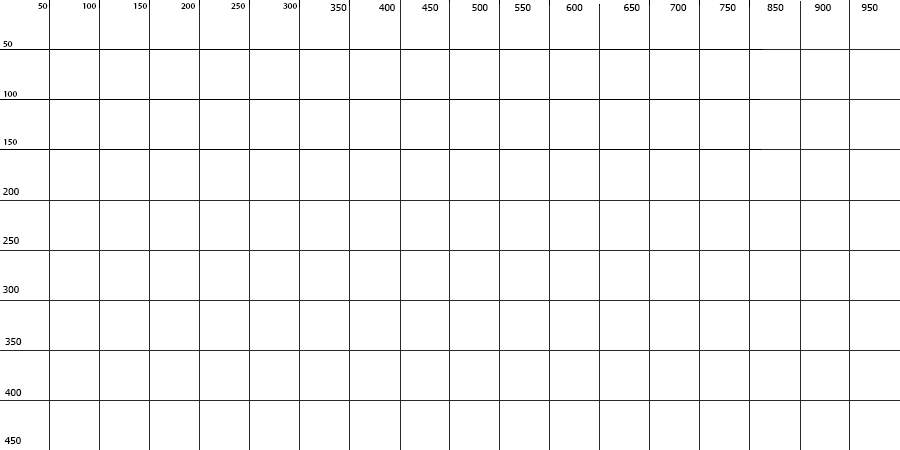
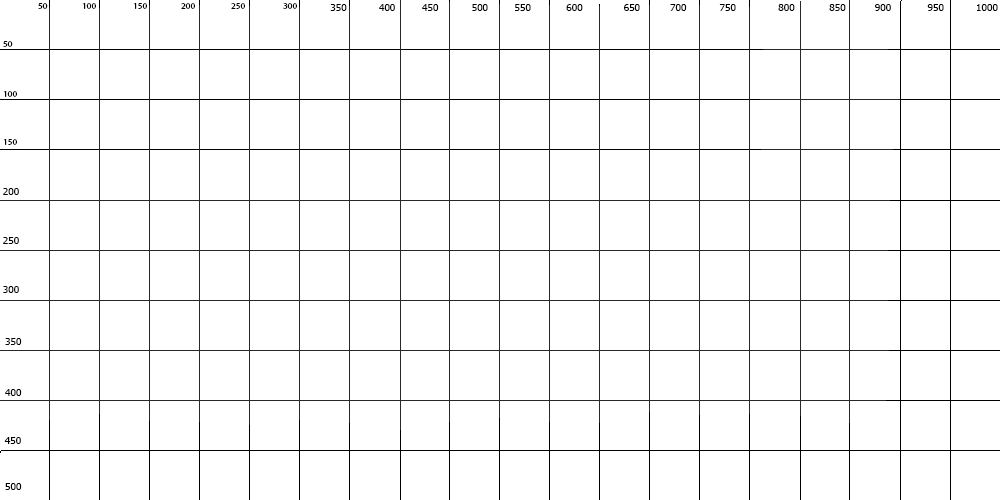
созданна основа клиента: -коррекция размеров

diff --git a/main.js b/main.js
@@ -3,7 +3,7 @@ inputs = document.querySelectorAll('input');
 for (let i=0; i < inputs.length; i++) {
   inputs[i].oninput = () => {
     addInputData(inputs);
-    drow();
+    draw();
   }
 }
 
@@ -21,15 +21,17 @@ function addInputData(node_list) {
 let canvas = document.getElementById('c1');
 ctx = canvas.getContext('2d');
 
-function drow() {
-  ctx.clearRect(0, 0, 900, 450);
+function draw() {
+  ctx.clearRect(0, 0, 1000, 500);
   ctx.strokeStyle = 'red';
   ctx.lineWidth = '5';
   ctx.beginPath();
-  ctx.moveTo(200, 150);
+  ctx.moveTo(500, 250);
+  let x = 0;
+  let y = 0;
   for (let i=0; i < inputDate.length; i++) {
-    let x = inputDate[i][0];
-    let y = inputDate[i][1];
+    x = inputDate[i][0];
+    y = inputDate[i][1];
     ctx.lineTo(x, y);
   }
   // ctx.closePath();

diff --git a/style.css b/style.css
@@ -62,12 +62,13 @@ body {
 }
 
 .drawing {
-    width: 84%;
+    width: 85%;
+    padding: 8px;
     height: 550px;
 }
 
 .property {
-    padding: 15px;
+    padding: 10px;
 }
 .property div {
     display: flex;
@@ -88,7 +89,7 @@ body {
     justify-content: space-between;
 }
 .input-data input {
-    width: 70px;
+    width: 65px;
 }
 
 /*============*/
@@ -106,10 +107,9 @@ body {
 }
 
 #c1 {
-    width: 900px;
-    height: 450px;
+    width: 1000px;
+    height: 500px;
     border: 3px solid black;
-    margin: 40px;
     background-image: url(setka.png);
 }
 

diff --git a/index.html b/index.html
@@ -29,11 +29,12 @@
         </div>
 
             <div class="content">
-            <div class="drawing border">
-                <canvas id="c1" width="900" height="450"></canvas>
-            </div>
+                <div class="drawing border">
+                    <canvas id="c1" width="1000" height="500"></canvas>
+                </div>
+                <div></div>
 
-            <div class="property border">
+                <div class="property border">
 
                 <div>
                     <span>Площадь</span>
